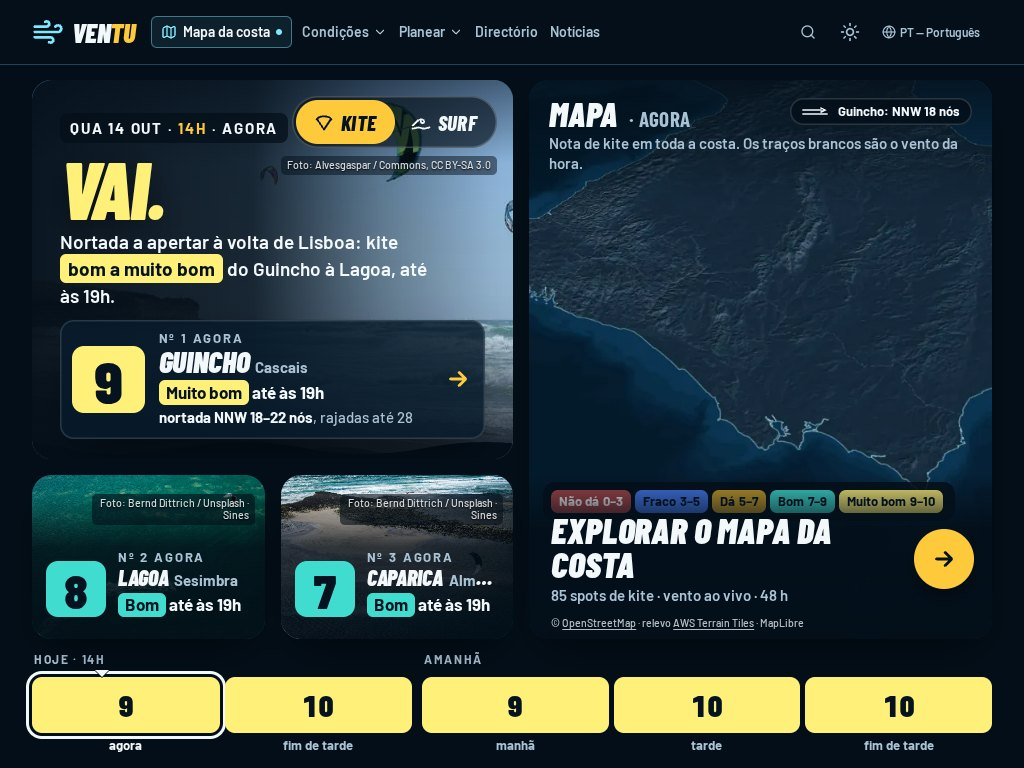
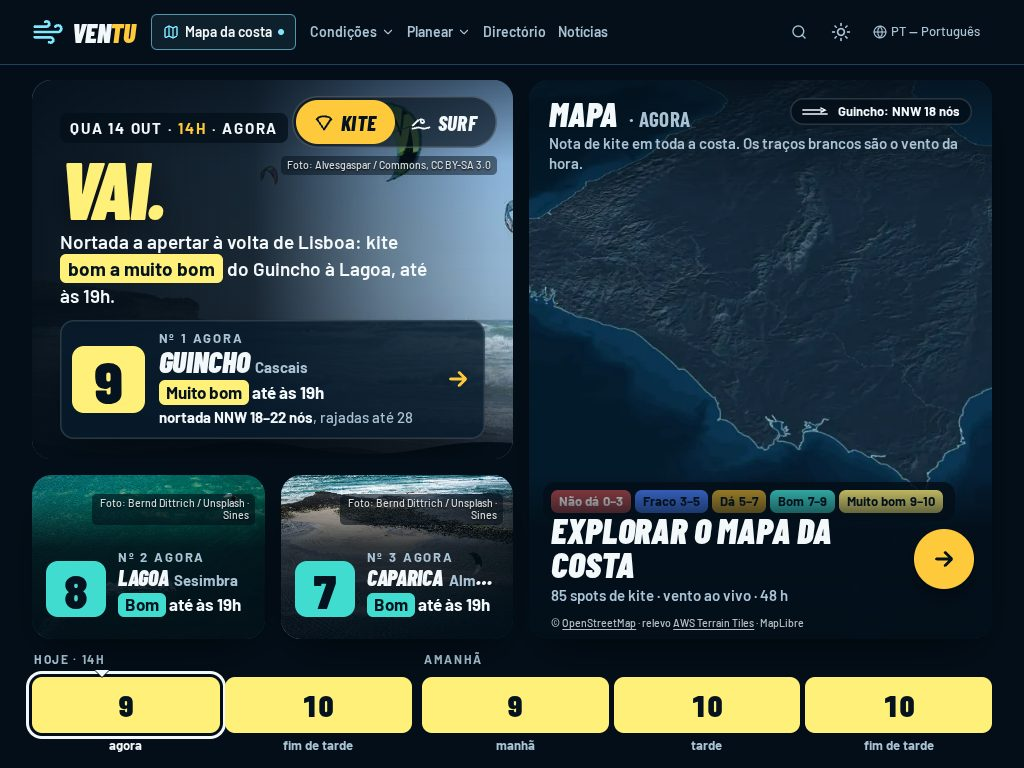
fix(#273): fidelidade à maquete v7 — cabeçalho, gaveta e «ATLÂNTICO»
- Cabeçalho desktop: «Mapa da costa» com a altura e o contorno da maquete (py-2 px-3,
  contorno gelo 60 %), mais ar até «Condições»; itens da nav com px-3 a partir de xl
  (Header + MegaMenu) e língua a 13 px, como na maquete. A 1024 a nav continua a caber.
- Cabeçalho < lg: lupa e menu brancos (text-fg), como o ícone novo do mapa e a maquete.
- Gaveta: cartão «Mapa da costa» com a altura e a tipografia da maquete (título 17 px).
- Cartão do mapa (1440): os nomes decorativos podem descer até ao topo da faixa do CTA,
  por isso o «ATLÂNTICO» aparece entre a legenda e o CTA, como na maquete.
- docs/pr-273: capturas e lado-a-lado refeitos com este build.

Changed region(s): [[0.1562, 0.0312, 0.5938, 0.0625], [0.7812, 0.0312, 0.9688, 0.0625]]

diff --git a/src/components/layout/Header.tsx b/src/components/layout/Header.tsx
@@ -155,7 +155,7 @@ export default function Header({ locale }: HeaderProps) {
       <select
         value={loc}
         onChange={handleLocaleChange}
-        className="appearance-none bg-transparent border-0 text-xs font-semibold text-fg-subtle hover:text-fg cursor-pointer focus:outline-none focus-visible:ring-2 focus-visible:ring-accent rounded-sm pr-1 min-h-[36px]"
+        className="appearance-none bg-transparent border-0 text-[13px] font-medium text-fg-subtle hover:text-fg cursor-pointer focus:outline-none focus-visible:ring-2 focus-visible:ring-accent rounded-sm pr-1 min-h-[36px]"
         aria-label={navLabel.chooseLanguage}
       >
         {locales.map((l) => (
@@ -212,7 +212,7 @@ export default function Header({ locale }: HeaderProps) {
   const closeMobile = () => setMobileMenuOpen(false);
 
   const linkClass = (active: boolean) =>
-    `shrink-0 px-1.5 2xl:px-3 py-1.5 rounded-input text-sm font-medium whitespace-nowrap transition-all duration-[200ms] ease-out-expo motion-reduce:transition-none ${
+    `shrink-0 px-1.5 xl:px-3 py-1.5 rounded-input text-sm font-medium whitespace-nowrap transition-all duration-[200ms] ease-out-expo motion-reduce:transition-none ${
       active
         ? 'bg-accent/15 text-accent ring-1 ring-accent/25'
         : 'text-fg-subtle hover:text-fg hover:bg-surface-1/[0.04]'
@@ -297,7 +297,7 @@ export default function Header({ locale }: HeaderProps) {
             >
               <Link
                 href={mapaHref}
-                className="site-nav-mapa relative shrink-0 inline-flex items-center gap-1.5 mr-1 2xl:mr-2 px-2.5 py-1.5 rounded-input text-sm font-semibold whitespace-nowrap text-fg ring-1 ring-inset ring-accent/45 bg-accent/[0.08] hover:bg-accent/15 transition-colors duration-[200ms] motion-reduce:transition-none"
+                className="site-nav-mapa relative shrink-0 inline-flex items-center gap-1.5 mr-2 xl:mr-3 px-3 py-2 rounded-input text-sm font-semibold whitespace-nowrap text-fg ring-1 ring-inset ring-accent/60 bg-accent/[0.08] hover:bg-accent/15 transition-colors duration-[200ms] motion-reduce:transition-none"
                 aria-current={isMapPage ? 'page' : undefined}
                 data-testid="nav-mapa-costa"
               >
@@ -371,7 +371,7 @@ export default function Header({ locale }: HeaderProps) {
               </Link>
               <button
                 onClick={openSearch}
-                className="inline-flex items-center justify-center w-11 h-11 rounded-lg text-fg-muted hover:text-fg hover:bg-surface-2/[0.08] transition-colors shrink-0"
+                className="inline-flex items-center justify-center w-11 h-11 rounded-lg text-fg hover:bg-surface-2/[0.08] transition-colors shrink-0"
                 aria-label={navLabel.search}
               >
                 <Search className="w-5 h-5" />
@@ -379,7 +379,7 @@ export default function Header({ locale }: HeaderProps) {
               {isMapPage && <ThemeToggle locale={locale} />}
               <button
                 onClick={() => setMobileMenuOpen(!mobileMenuOpen)}
-                className="inline-flex items-center justify-center w-11 h-11 rounded-lg text-fg-muted hover:text-fg hover:bg-surface-2/[0.08] transition-colors shrink-0"
+                className="inline-flex items-center justify-center w-11 h-11 rounded-lg text-fg hover:bg-surface-2/[0.08] transition-colors shrink-0"
                 aria-label={mobileMenuOpen ? navLabel.closeMenu : navLabel.openMenu}
                 aria-expanded={mobileMenuOpen}
                 aria-controls="mobile-nav"
@@ -412,14 +412,14 @@ export default function Header({ locale }: HeaderProps) {
             <Link
               href={mapaHref}
               onClick={closeMobile}
-              className="flex items-center gap-3 min-h-[52px] px-3 py-2.5 mb-2 rounded-xl text-fg bg-accent/10 ring-1 ring-inset ring-accent/30 hover:bg-accent/15 transition-colors duration-[200ms] motion-reduce:transition-none"
+              className="flex items-center gap-3 min-h-[50px] px-3 py-2 mb-2 rounded-xl text-fg bg-accent/10 ring-1 ring-inset ring-accent/30 hover:bg-accent/15 transition-colors duration-[200ms] motion-reduce:transition-none"
               aria-current={isMapPage ? 'page' : undefined}
               data-testid="gaveta-mapa-costa"
             >
               <MapIcon className="w-[22px] h-[22px] shrink-0 text-accent" aria-hidden />
               <span className="min-w-0 flex-1">
-                <span className="block text-base font-semibold leading-tight">{navLabel.mapaCosta}</span>
-                <span className="block text-[13px] leading-tight text-fg-muted mt-0.5">{navLabel.mapaCostaSub}</span>
+                <span className="block text-[17px] font-semibold leading-tight">{navLabel.mapaCosta}</span>
+                <span className="block text-[13.5px] leading-tight text-fg-muted mt-px">{navLabel.mapaCostaSub}</span>
               </span>
               <ArrowRight className="w-5 h-5 shrink-0 text-accent" aria-hidden />
             </Link>

diff --git a/src/components/home/v6/CostaMapa3D.tsx b/src/components/home/v6/CostaMapa3D.tsx
@@ -256,7 +256,8 @@ export default function CostaMapa3D({ M, E, copy: c, hrefMapa, nSpots, forcarPla
     postos.splice(0, postos.length, ...feitos.map(({ x, y, w, h }) => ({ x, y, w, h })));
     const lbl = (txt: string, ll: [number, number]) => {
       const q = p.proj(ll);
-      if (!q || q.x < 40 || q.x > W - 40 || q.y < topoLivre || q.y > fundo) return;
+      // nomes decorativos (aria-hidden): no desktop podem descer até ao topo da faixa do CTA (o «ATLÂNTICO» da maquete fica entre a legenda e o CTA)
+      if (!q || q.x < 40 || q.x > W - 40 || q.y < topoLivre || q.y > (dk ? H - 112 : fundo)) return;
       if (postos.some((r) => q.x > r.x - 50 && q.x < r.x + r.w + 50 && q.y > r.y - 12 && q.y < r.y + r.h + 12)) return;
       const el = document.createElement('div');
       el.className = 'top-lbl';

diff --git a/src/components/layout/MegaMenu.tsx b/src/components/layout/MegaMenu.tsx
@@ -122,7 +122,7 @@ export default function MegaMenu({ locale, isOpen, isActive = false, onOpen, onC
         ref={triggerRef}
         type="button"
         onClick={handleToggle}
-        className={`inline-flex items-center gap-1 shrink-0 whitespace-nowrap px-1.5 2xl:px-3 py-1.5 rounded-input text-sm font-medium transition-all duration-[200ms] ease-out-expo motion-reduce:transition-none ${
+        className={`inline-flex items-center gap-1 shrink-0 whitespace-nowrap px-1.5 xl:px-3 py-1.5 rounded-input text-sm font-medium transition-all duration-[200ms] ease-out-expo motion-reduce:transition-none ${
           isActive
             ? 'bg-accent/15 text-accent ring-1 ring-accent/25'
             : 'text-fg-subtle hover:text-fg hover:bg-surface-1/[0.04]'
